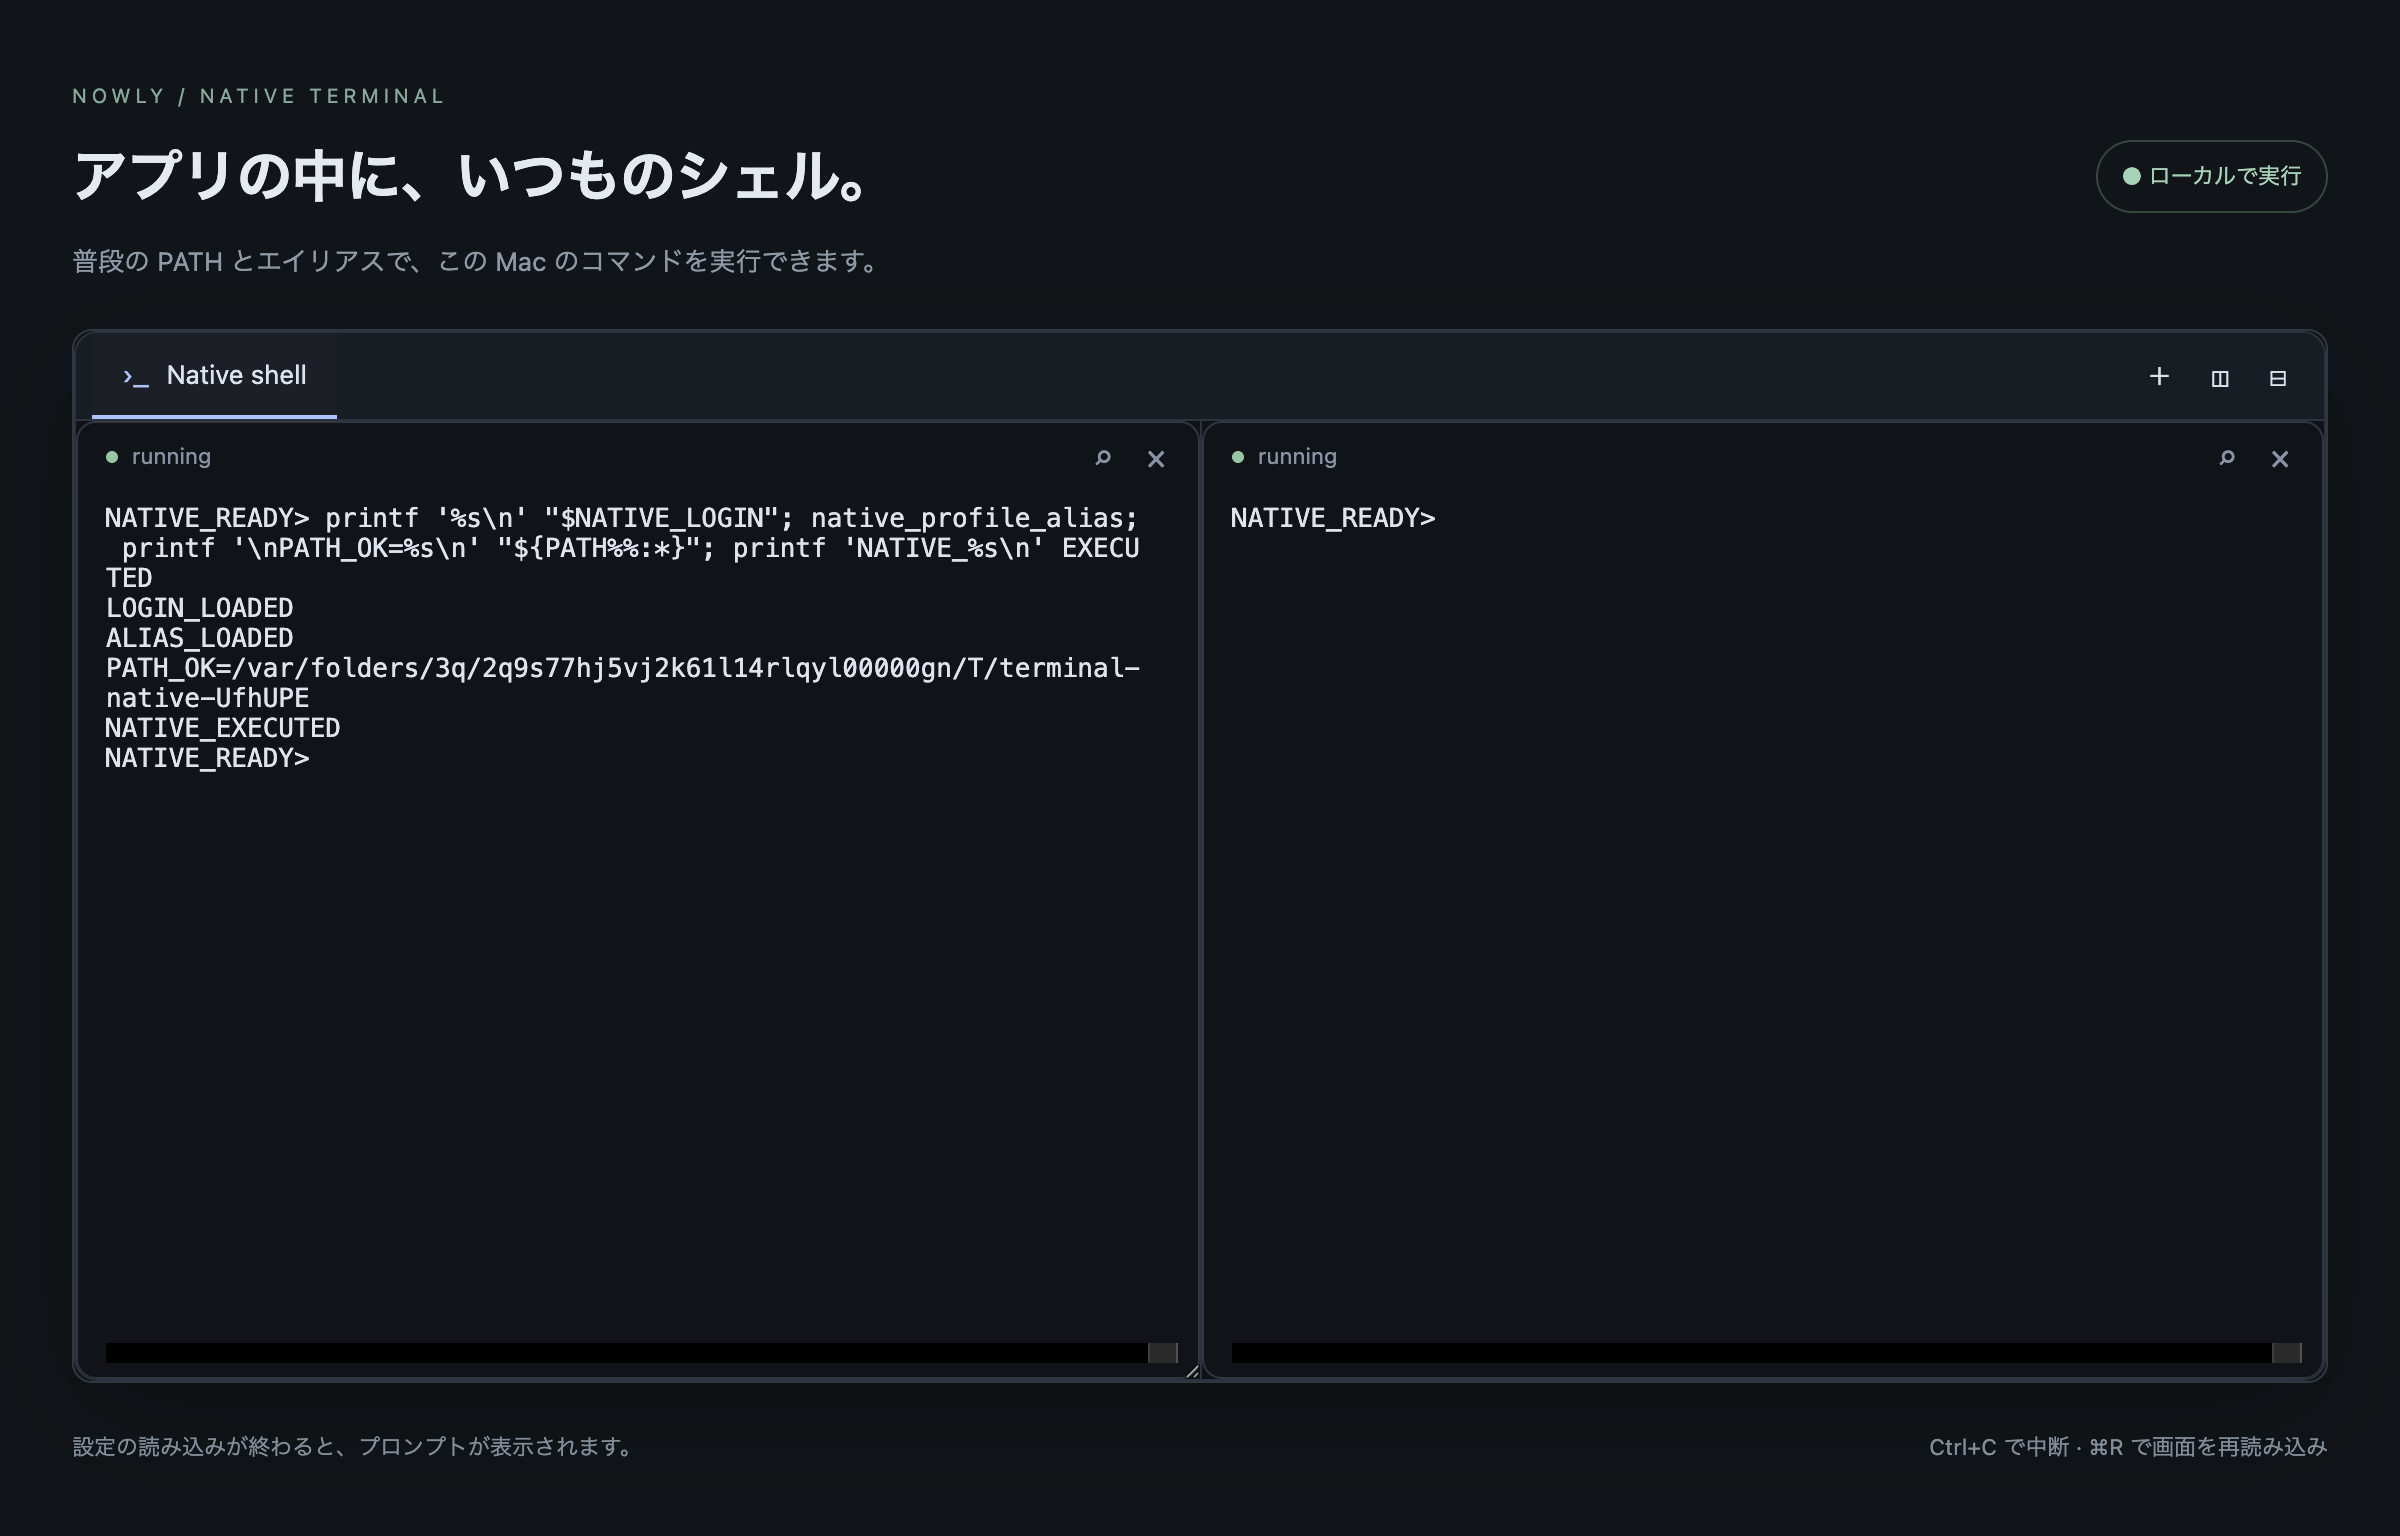
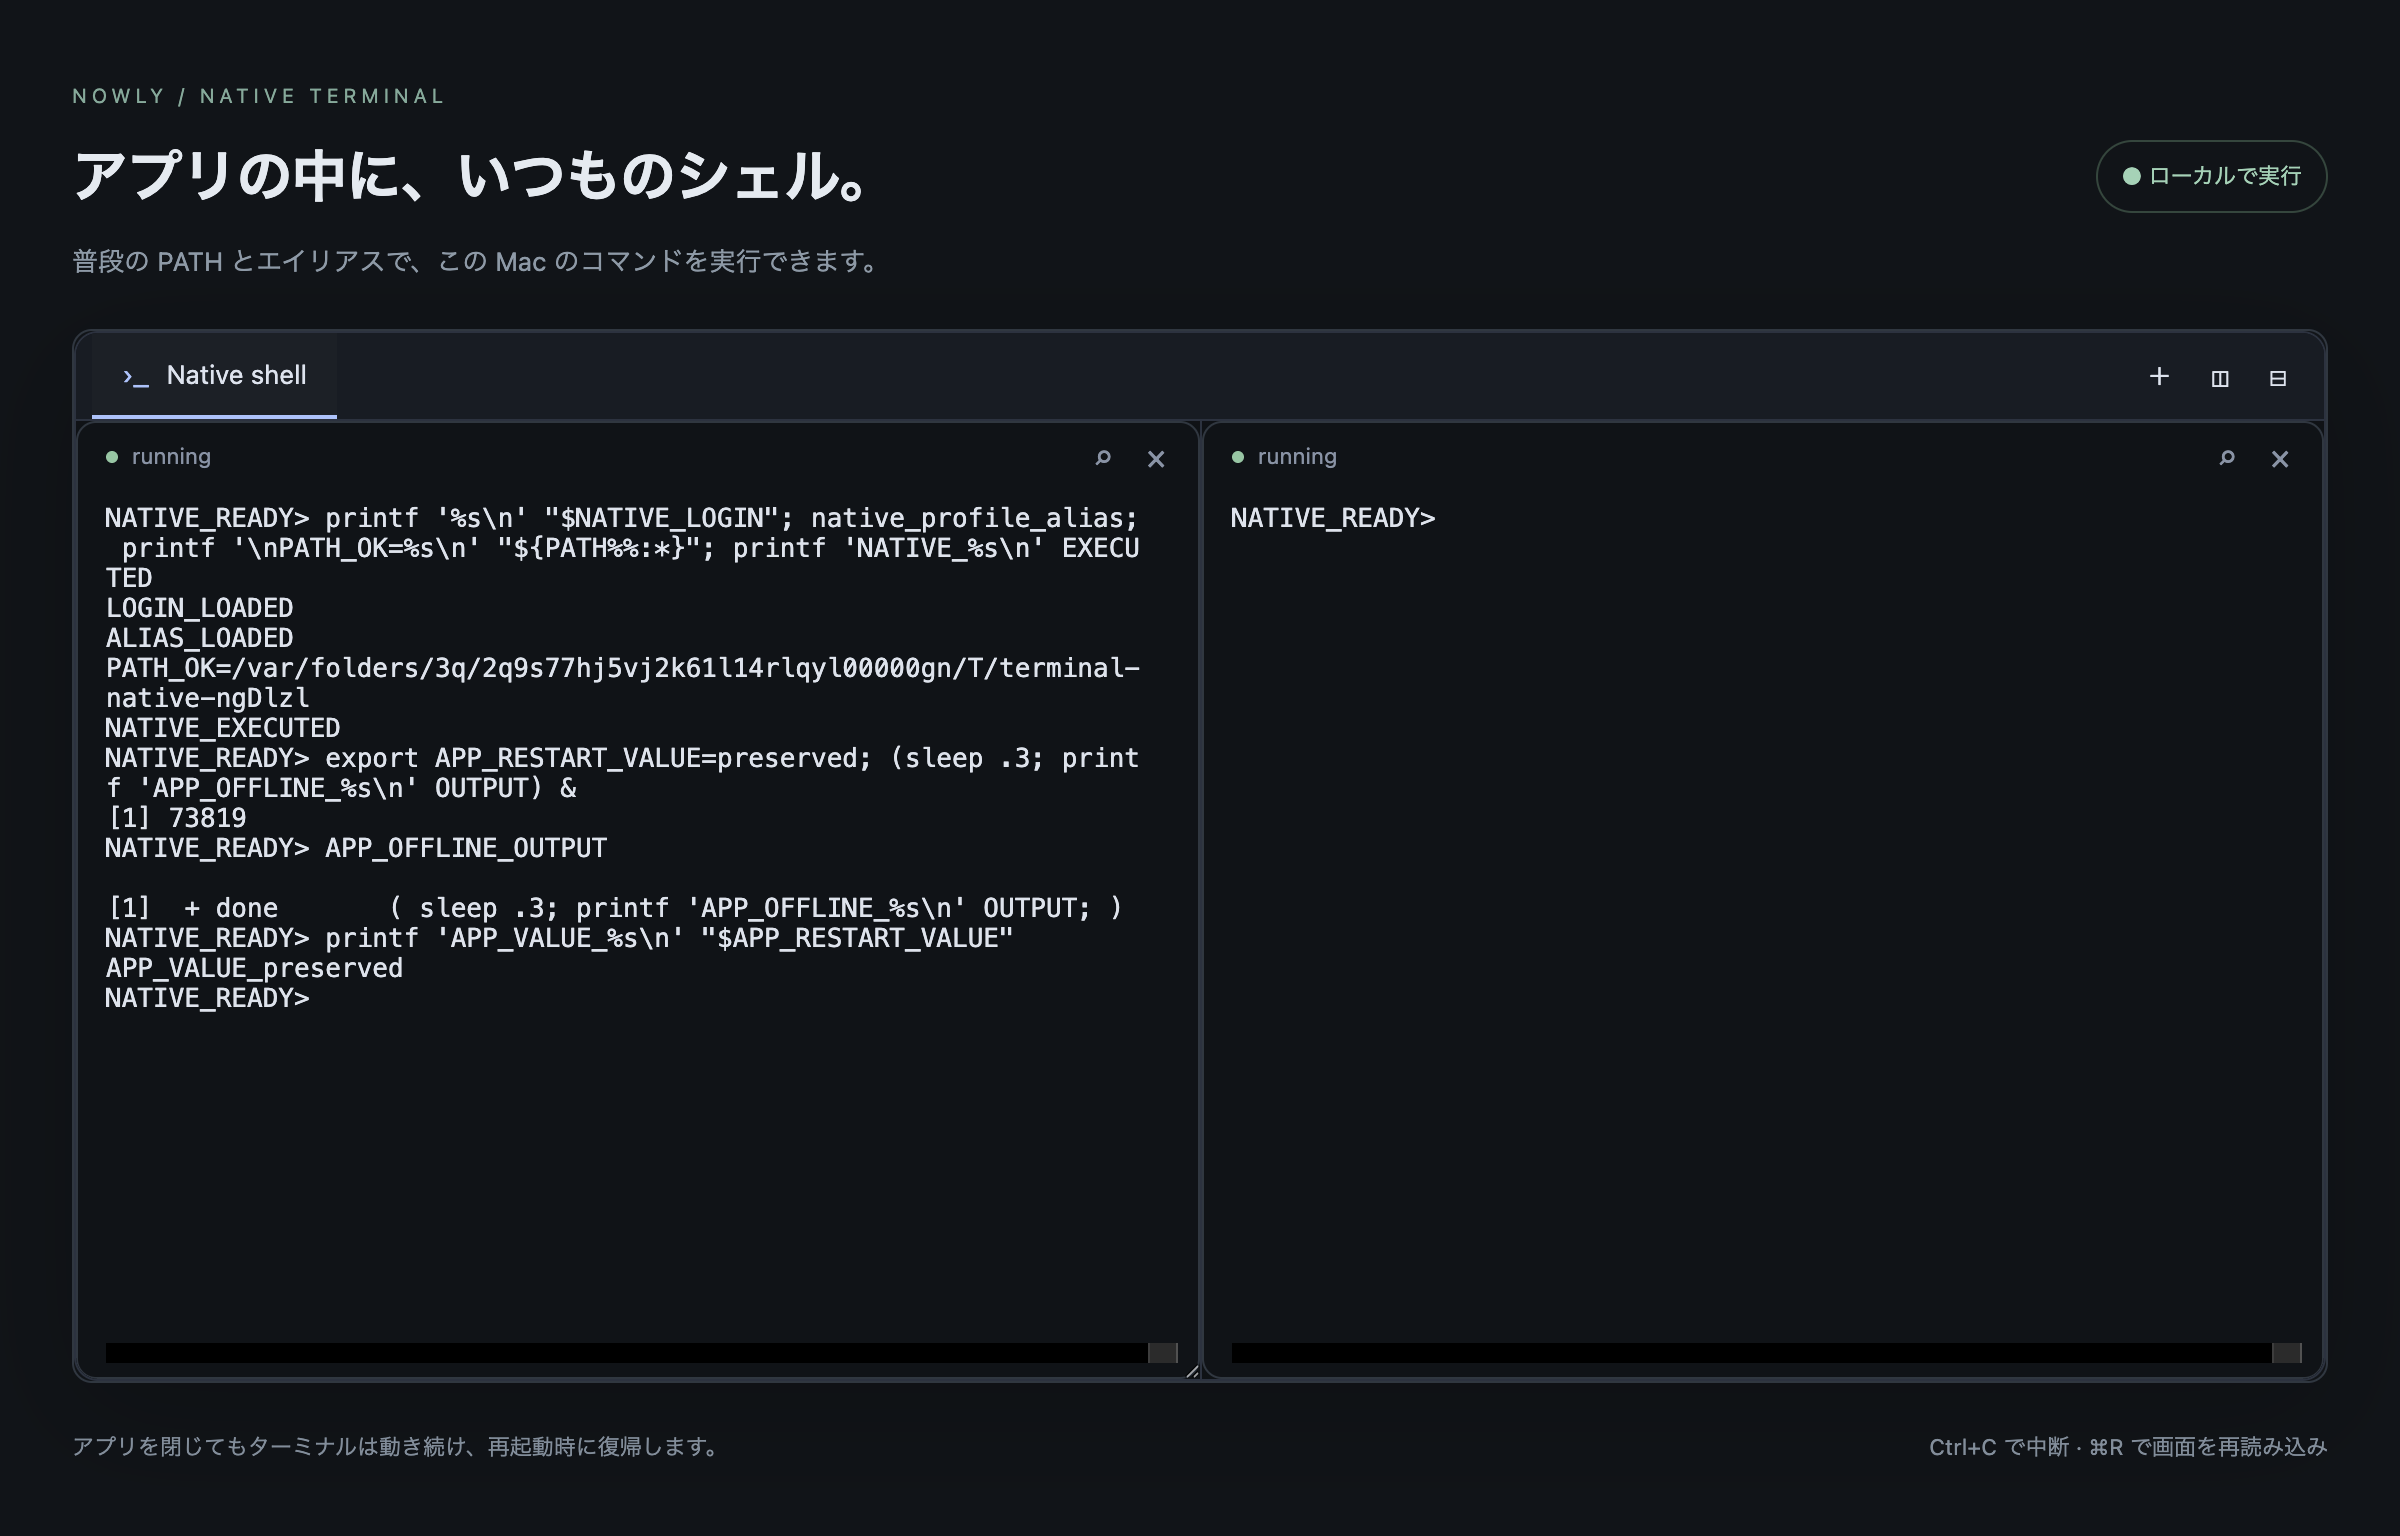
fix: isolate daemon bootstrap and await terminal shutdown

diff --git a/src/server/session.ts b/src/server/session.ts
@@ -30,6 +30,12 @@ export class Session {
   private disposed = false;
   private subscriptions: pty.IDisposable[] = [];
   private exitCode: number | undefined;
+  private exited = false;
+  private resolveExit!: () => void;
+  private processExit = new Promise<void>((resolve) => {
+    this.resolveExit = resolve;
+  });
+  private stopping: Promise<void> | undefined;
   constructor(
     readonly id: string,
     cols: number,
@@ -72,6 +78,8 @@ export class Session {
       }),
       this.process.onData((data) => this.ingest(data)),
       this.process.onExit(({ exitCode }) => {
+        this.exited = true;
+        this.resolveExit();
         void this.enqueue(() => {
           this.exitCode = exitCode;
           this.emit({ type: "exit", sessionId: id, exitCode });
@@ -177,11 +185,39 @@ export class Session {
       }
     }
   }
-  async dispose() {
-    if (this.disposed) return;
+  private async waitForExit(timeoutMs: number) {
+    let timer: ReturnType<typeof setTimeout> | undefined;
+    try {
+      await Promise.race([
+        this.processExit,
+        new Promise<void>((resolve) => {
+          timer = setTimeout(resolve, timeoutMs);
+        }),
+      ]);
+    } finally {
+      clearTimeout(timer);
+    }
+    return this.exited;
+  }
+  dispose(): Promise<void> {
+    return (this.stopping ??= this.stop().catch((error) => {
+      this.stopping = undefined;
+      throw error;
+    }));
+  }
+  private async stop() {
     this.disposed = true;
+    if (!this.exited) {
+      // Keep the exit subscription alive until the owned PTY has terminated.
+      // A shell can ignore SIGHUP, so explicit close has a bounded fallback.
+      this.process.kill();
+      if (!(await this.waitForExit(750))) {
+        this.process.kill("SIGKILL");
+        if (!(await this.waitForExit(1500)))
+          throw new Error(`PTY ${this.id} did not terminate`);
+      }
+    }
     for (const subscription of this.subscriptions) subscription.dispose();
-    if (this.exitCode === undefined) this.process.kill();
     await this.chain;
     this.emit({ type: "closed", sessionId: this.id });
     this.listeners.clear();

diff --git a/tests/daemon.test.ts b/tests/daemon.test.ts
@@ -156,3 +156,54 @@ test("dead daemon can be replaced; stale launch lock is not blindly removed", as
     ensureTerminalDaemon({ ...locked, startupTimeoutMs: 150 }),
   ).rejects.toThrow("launch.lock");
 });
+
+test("daemon bootstrap Node-mode flag is not inherited by interactive commands", async () => {
+  const client = await start();
+  await client.request("create", { id: "environment" });
+  await expect
+    .poll(() => screen(client, "environment"))
+    .toContain("DAEMON_READY>");
+  await client.request("write", {
+    id: "environment",
+    data: "printf 'BOOTSTRAP_%s\\n' \"${ELECTRON_RUN_AS_NODE-unset}\"\r",
+  });
+  await expect
+    .poll(() => screen(client, "environment"))
+    .toContain("BOOTSTRAP_unset");
+});
+
+test("explicit shutdown waits for and terminates a shell that ignores hangup", async () => {
+  const client = await start();
+  const daemonPid = client.info().pid;
+  const shell = await client.request("create", { id: "ignore-hup" });
+  try {
+    await expect
+      .poll(() => screen(client, shell.id))
+      .toContain("DAEMON_READY>");
+    await client.request("write", {
+      id: shell.id,
+      data: "trap '' HUP; printf 'HUP_%s\\n' ARMED\r",
+    });
+    await expect.poll(() => screen(client, shell.id)).toContain("HUP_ARMED");
+    await client.shutdown();
+    expect(() => process.kill(shell.pid, 0)).toThrow();
+    await expect
+      .poll(
+        () => {
+          try {
+            process.kill(daemonPid, 0);
+            return false;
+          } catch {
+            return true;
+          }
+        },
+        { timeout: 1500 },
+      )
+      .toBe(true);
+  } finally {
+    for (const pid of [shell.pid, daemonPid])
+      try {
+        process.kill(pid, "SIGKILL");
+      } catch {}
+  }
+});

diff --git a/src/daemon/entry.ts b/src/daemon/entry.ts
@@ -13,6 +13,9 @@ process.once("message", async (message: unknown) => {
       typeof hostOptions !== "object"
     )
       throw Error("Invalid daemon bootstrap");
+    // Electron needs this only to bootstrap the daemon as Node. Interactive
+    // children must be able to launch Electron applications normally.
+    delete process.env.ELECTRON_RUN_AS_NODE;
     const { startDaemon } = await import("./server.js");
     const daemon = await startDaemon(runtimeDir, hostOptions);
     for (const signal of ["SIGTERM", "SIGINT"] as const)

diff --git a/src/daemon/server.ts b/src/daemon/server.ts
@@ -176,6 +176,7 @@ export async function startDaemon(runtimeDir: string, options: HostOptions) {
             if (active)
               sendFrame(socket, { type: "response", requestId, result });
           } catch (error) {
+            if (method === "shutdown") closing = false;
             if (active)
               sendFrame(socket, {
                 type: "response",

diff --git a/docs/superpowers/plans/2026-09-24-persistent-daemon.md b/docs/superpowers/plans/2026-09-24-persistent-daemon.md
@@ -29,24 +29,24 @@
 Files: new src/daemon/{index,metadata,wire,client,server,entry,launcher}.ts; tests/daemon.test.ts; package exports/build.
 Interfaces: ensureTerminalDaemon({runtimeDir,hostOptions?,executablePath?,startupTimeoutMs?}) → Promise<DaemonClient>; connectTerminalDaemon(runtimeDir) → Promise<DaemonClient>. DaemonClient implements TerminalTransport, ready(), dispose(), shutdown(), info(). Info includes daemon PID/instance/protocol, never token in renderer.
 
-- [ ] Add real-process integration tests for persistent session variables/PID/output, concurrent launch, invalid authentication, config mismatch, dead daemon replacement and explicit shutdown. Run and observe missing implementation failure.
-- [ ] Implement private runtime metadata and unique short endpoints, bounded newline framing, authenticated global serialized dispatch, detach cleanup, child bootstrap IPC and startup lock. Implement client request/event/status ownership.
-- [ ] Run daemon tests, typecheck and existing unit suite; fix failures; commit.
+- [x] Add real-process integration tests for persistent session variables/PID/output, concurrent launch, invalid authentication, config mismatch, dead daemon replacement and explicit shutdown. Run and observe missing implementation failure.
+- [x] Implement private runtime metadata and unique short endpoints, bounded newline framing, authenticated global serialized dispatch, detach cleanup, child bootstrap IPC and startup lock. Implement client request/event/status ownership.
+- [x] Run daemon tests, typecheck and existing unit suite; fix failures; commit.
 
 ## Task 2 — Native restart integration
 
 Files: examples/electron/main.cjs, terminal-ipc.mjs, preload.cjs if needed, src/ipc-transport.ts, README; tests/electron.spec.ts.
 Interfaces: main uses ensureTerminalDaemon with userData/terminal-daemon and process.execPath; bridge consumes TerminalTransport and disconnects on app quit. Main menu can shutdown explicitly; renderer never exposes administrative shutdown/token/config.
 
-- [ ] Change native regression to close/reopen application with the same userData and assert same daemon/shell PID, shell variable, buffered output and normal command execution. Observe failure against old lifecycle.
-- [ ] Convert IPC bridge to transport proxy with frame validation and reload fences. Main owns daemon connection only. Add explicit stop-and-quit menu and status propagation. Native fixture verifies hidden launch, rename/split/reload and final process exit.
-- [ ] Build actual tarball, install/rebuild isolated sample, run native regression; commit.
+- [x] Change native regression to close/reopen application with the same userData and assert same daemon/shell PID, shell variable, buffered output and normal command execution. Observe failure against old lifecycle.
+- [x] Convert IPC bridge to transport proxy with frame validation and reload fences. Main owns daemon connection only. Add explicit stop-and-quit menu and status propagation. Native fixture verifies hidden launch, rename/split/reload and final process exit.
+- [x] Build actual tarball, install/rebuild isolated sample, run native regression; commit.
 
 ## Task 3 — Distribution and final verification
 
 Files: package version and example tarball paths, README/docs/integration/docs/verification, package-verification script as needed.
 
-- [ ] Document normal quit vs stop, architecture, short endpoint/private runtime, stale-lock recovery, config matching, and unsupported OS/daemon restart persistence.
-- [ ] Run pnpm check, browser journeys, packaged consumer and standalone native archive verification; inspect native screenshot.
-- [ ] Obtain one independent fresh-context whole-change review while checking packaged output. Fix actionable findings with reproduced regressions; no repeated review loop.
-- [ ] Commit final source/docs, retain local branch and updated archives; report results and limitations. Existing publication request was completed earlier; do not infer a new release/publication action.
+- [x] Document normal quit vs stop, architecture, short endpoint/private runtime, stale-lock recovery, config matching, and unsupported OS/daemon restart persistence.
+- [x] Run pnpm check, browser journeys, packaged consumer and standalone native archive verification; inspect native screenshot.
+- [x] Obtain one independent fresh-context whole-change review while checking packaged output. Fix actionable findings with reproduced regressions; no repeated review loop.
+- [x] Commit final source/docs, retain local branch and updated archives; report results and limitations. Existing publication request was completed earlier; do not infer a new release/publication action.

diff --git a/docs/verification.md b/docs/verification.md
@@ -70,3 +70,11 @@ Native architecture is now renderer → preload IPC → Electron main → authen
 - No new runtime dependencies. Daemon client does not load node-pty in Electron main. Native child uses matching Electron Node mode.
 
 The daemon is deliberately not an OS service and does not resurrect shells after daemon/OS death. Windows/Linux execution is not claimed. A crashed launcher's uncertain startup lock requires verified manual recovery rather than blind deletion.
+
+Final verification after the independent review fixes:
+
+- TypeScript and clean library build pass; 25 host/transport/daemon tests pass.
+- Both browser journeys pass. The packaged CLI executes a real local command, and the isolated TypeScript/React consumer builds successfully.
+- Standalone native archive passes fresh-cache installation, native rebuild, renderer build and both Electron tests on macOS arm64. The screenshot above now shows the recovered session after a full application restart.
+- The review reproduced two defects before correction: the Electron bootstrap environment flag leaked into interactive shells, and a shell ignoring SIGHUP survived explicit shutdown. The daemon now clears the bootstrap flag before creating its host; session disposal waits for exit and escalates to SIGKILL after a bounded grace period. Shutdown errors remain visible and retryable. Both regressions pass, including shell termination before shutdown acknowledges success.
+- No deferred review findings. Version 0.1.3 library/native archives were rebuilt. Work stays on the local codex/terminal-toolkit branch; no new push or registry publication was performed.
